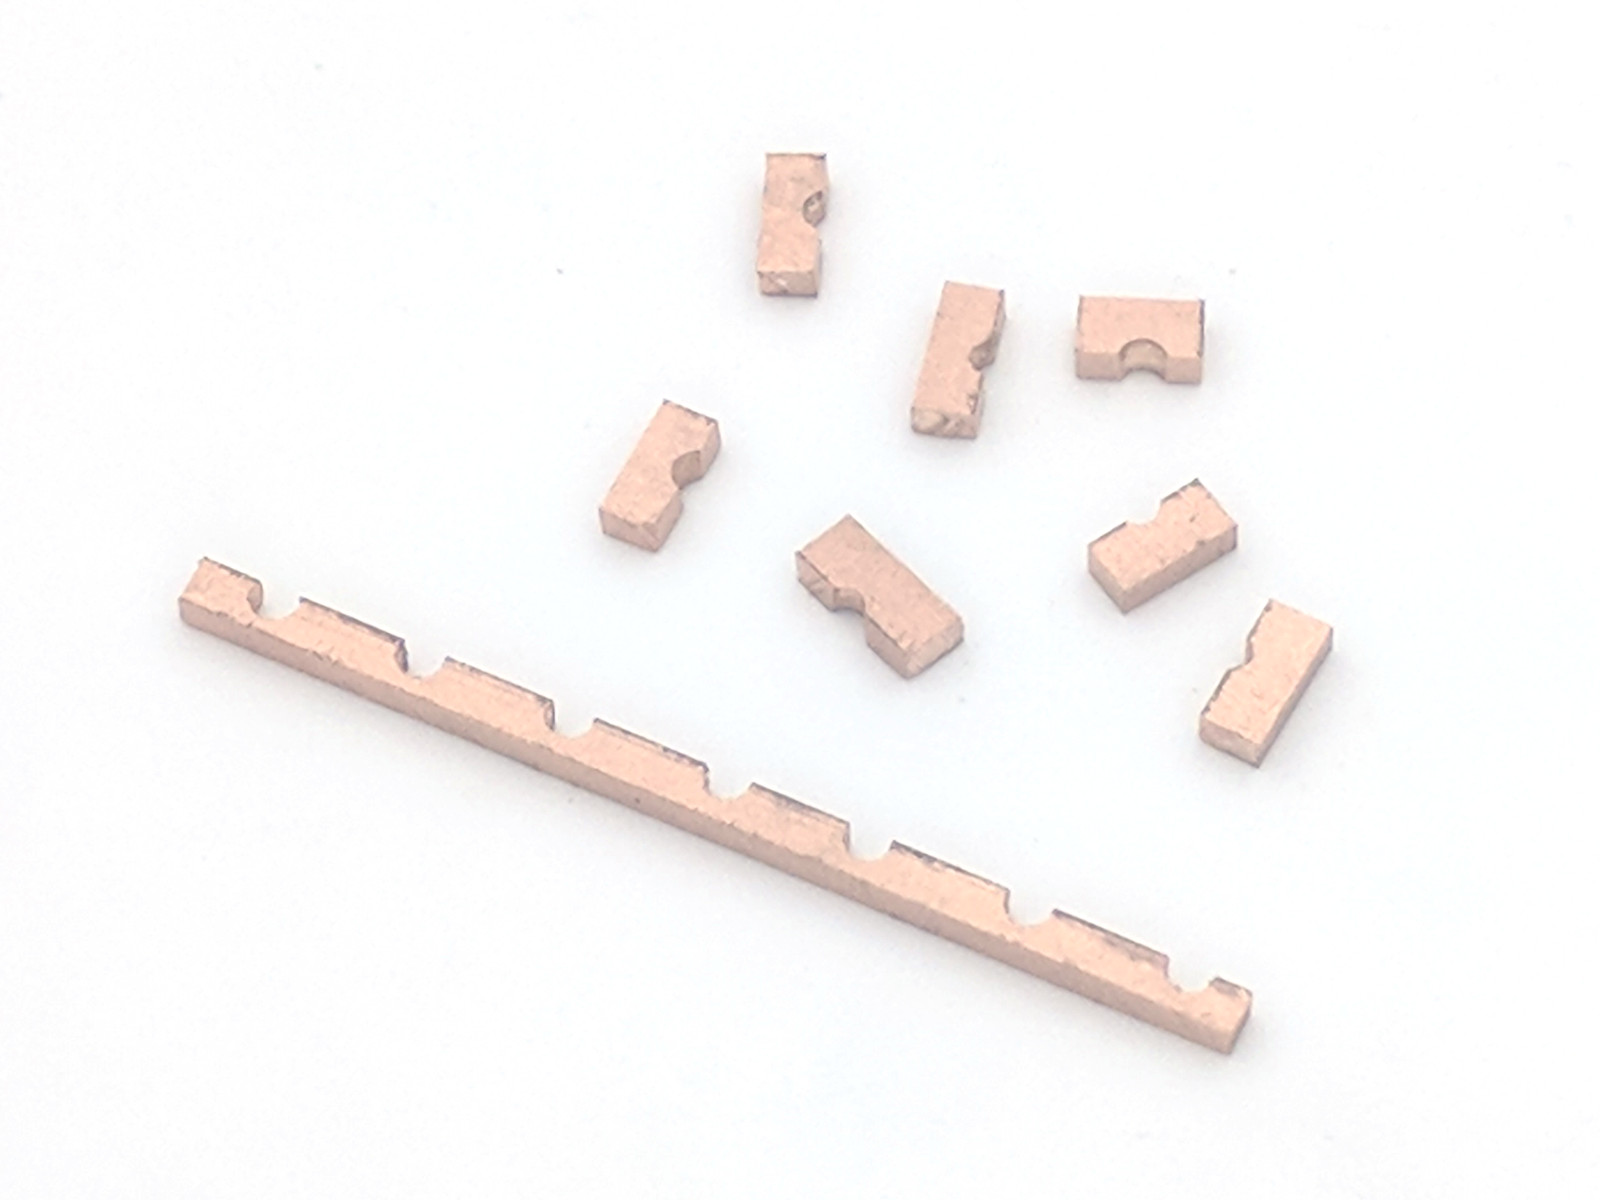
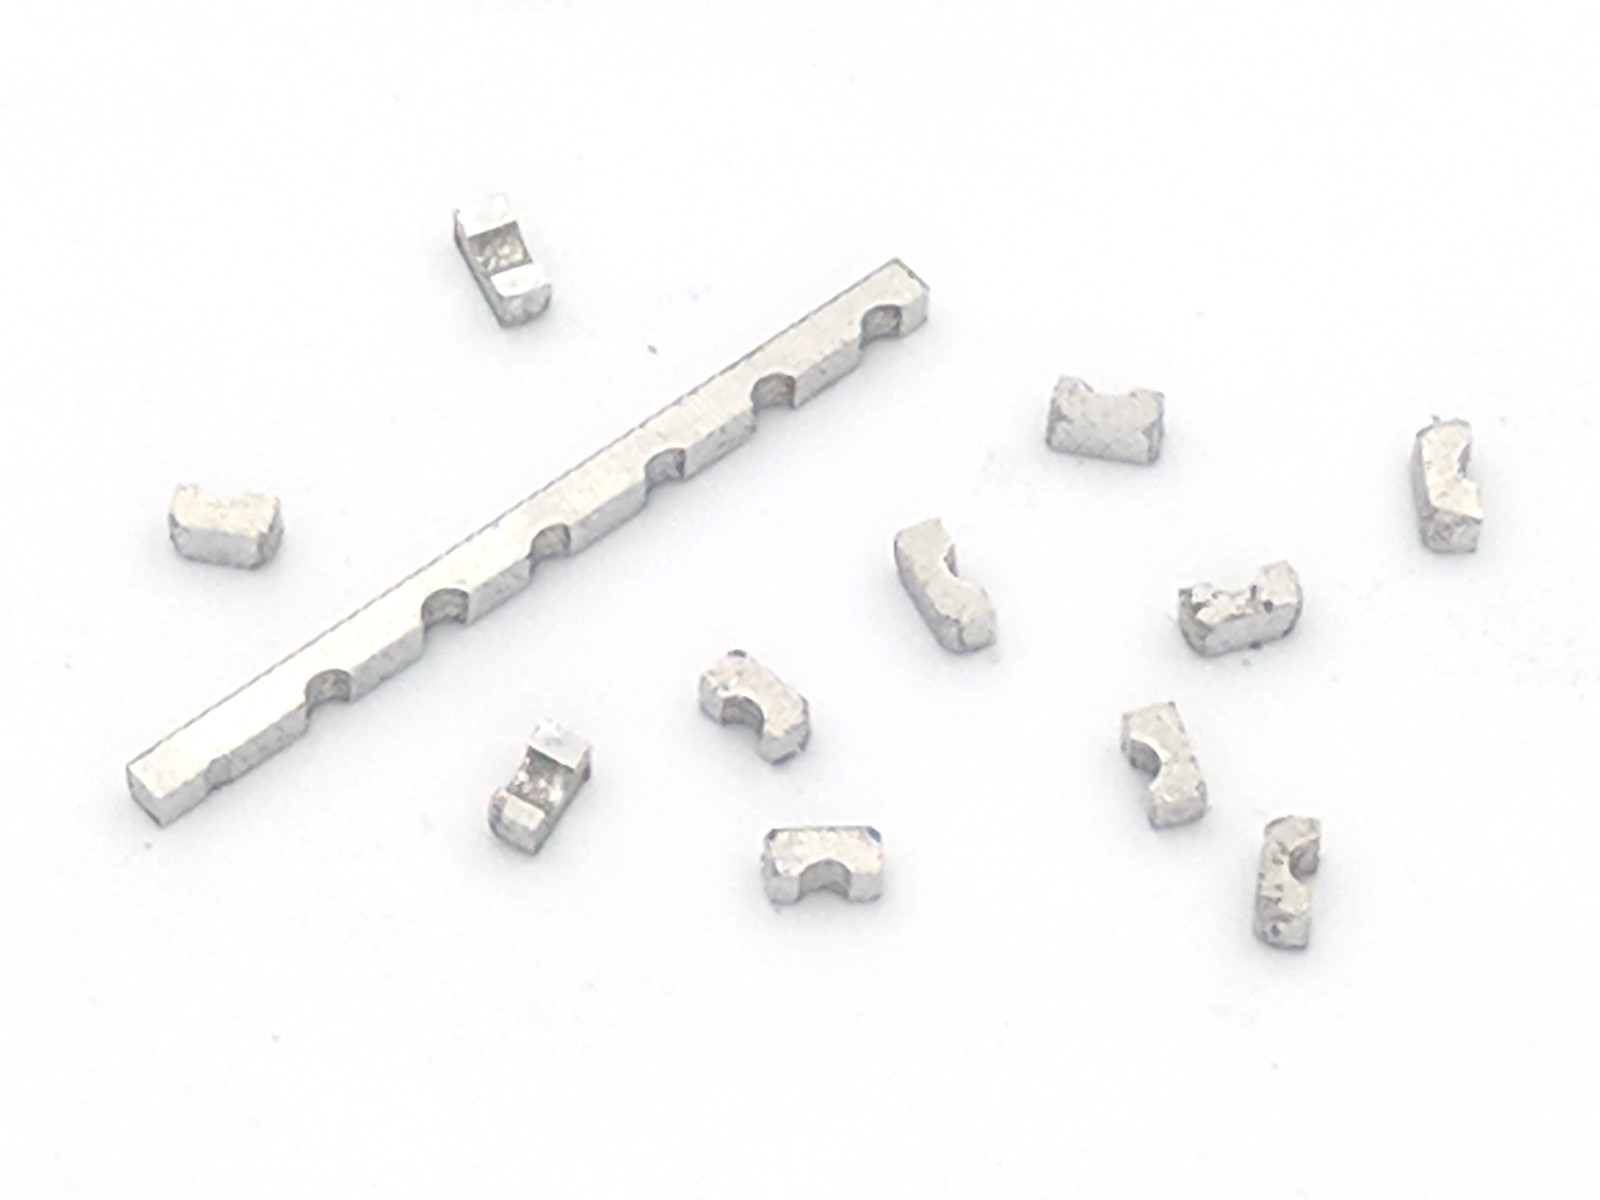
docs: update build info

diff --git a/doc/heater_assembly.md b/doc/heater_assembly.md
@@ -2,225 +2,115 @@ Heater assembly <!-- omit in toc -->
 ===============
 
 - [Intro](#intro)
-- [Make copper plate of required size](#make-copper-plate-of-required-size)
-- [PCB Mount holes](#pcb-mount-holes)
-- [MCH mount holes](#mch-mount-holes)
-- [Cones for flat cap screws](#cones-for-flat-cap-screws)
-- [Sanding](#sanding)
-- [Half-shims for MCH](#half-shims-for-mch)
-- [Test assembly](#test-assembly)
+- [Drilling conductor](#drilling-conductor)
+- [Drill plate](#drill-plate)
+- [Half-shims for MCH mount](#half-shims-for-mch-mount)
 - [Painting](#painting)
-- [Paint baking](#paint-baking)
 - [MCH pads insulation](#mch-pads-insulation)
 - [Final assembly](#final-assembly)
 
 ## Intro
 
-There are 2 possible types of heaters:
+Everything is designed with accessible materials. But we strongly recommend you
+consider [mini circular saw tables](https://www.aliexpress.com/item/32845187139.html)
+for easy aluminum cut. Of cause, you can cut it by hand saw, if you are patient.
 
-- MCH-based, with copper top plate.
-- Aluminum heater cartridge.
-
-Copper has better thermal conductivity and better response. In real world this means:
-
-- More uniform surface temperature.
-- More easy to cool down (we need 4C/sec cooldown speed on reflow end).
-- More flexible configurations (AC 110/220) and higher max temperatures
-
-As perfectionists, we recommend "copper" heater. But as realists, we don't like
-to reduce project availability and have "Plan B" - aluminum heater.
-
-"Mission" of this project is to make modern electronics easy to do by
-hobbyists. That means, everything should be possible to do at home, with
-electric screwdriver & 3D-printer only, without machine-tools. From this
-point of view, need of circular saw table is a serious disadvantage. But there
-are cheap and very small [mini circular saw tables](https://www.aliexpress.com/item/32845187139.html).
-Those will be enough for our needs. Only you can make a choice. Our duty is
-to describe possibilities and expenses.
-
-We describe build of both heater types in parallel. Just skip unneeded steps
-for aluminum heater.
-
-Let's go!
+Also, we recommend you build drilling conductor for ideal drill angle and depth.
 
 
-## Make copper plate of required size
+## Drilling conductor
 
-You need 70*60mm copper plate, 2mm thick. Cut it at circular saw. If you use
-mini table and have no experience, you should know:
+That's not mandatory, but simplifies making accurate holes for screws:
 
-- ADD OIL to cut line. That's important.
-- Fewer big teeth are much better for copper/alu than more small teeth.
-  Just use stock 80mm disk with oil.
+![](images/drill_conductor_duo.jpg)
+
+Holes are 1.7mm and 3.1mm (in M6 screws, glued with CA), for appropriate drill bits.
+
+Tips:
+
+1. It's not mandatory to use metal U-profile. Use anything you have,
+   even wood. You can also use [miter track](https://www.aliexpress.com/item/33048246472.html).
+2. To make hole in M6 screw center - put it into screwdriver, and push with
+   drill bit, placed into separate chuck. Philips head is important - no need to
+   search center point.
+3. To simplify drilling:
+    - Use the worst possible screws :). Avoid stainless steel and tempered steel.
+    - Add oil to drilled point. If you don't have special one - olive oil will be
+      ok.
+    - HSS Co (M35, M42) drill bits are more comfortable for steel, instead of
+      ordinary HSS. It's also good idea to have reserve drill bits.
+4. You may need additional spacer for 3.1mm hole. Drill 2 screws.
+
+After conductor ready, use it to make test holes on unused peace of metal.
+Drill 1.7mm hole and then drill 3.1mm cone down until screw sits as needed.
+Later, use this to set exact drill bit height in chuck.
+
+
+## Drill plate
+
+You need 70*60mm plate, 2-3mm thick. Cut it with circular or hand saw. If you
+use [mini table saw](https://www.aliexpress.com/item/32845187139.html) and have
+no experience, you should know:
+
+- No need to buy separate saw disc for metal, stock one is ok.
+- ADD OIL to cut area. That's important.
 - Train first :). Do couple of test cuts.
 
+Stick plate to PCB with sticky tape, and drill holes to mount MCH and plate
+itself. Then, set exact drill bit height from previous test samples, and make
+cones for screw caps.
 
-## PCB Mount holes
+After all - sand plate to remove artefacts and improve painting quality.
 
-Stick copper plate (or alu heater) to PCB with sticky tape, and use PCB as
-conductor to drill 1.6mm holes.
+![](images/plate_drilled_3mm.jpg)
 
-Note, copper is very inconvenient to drill. Use medium RPM and push gently.
-If electric drill starts to vibrate - increase RPM until acceptable. Advices:
-
-- HSS Co (M35) drill bits recommended. Those tend to forgive you mistakes,
-  if you select too high RPM.
-- Train first! Try to drill unused peace of copper plate to understand process.
-- You should have 1-2 reserve 1.6mm drill bits for replace.
-- Be patient, don't push too hard.
+If you have orbital sander - use it. Manual sanding is ok to, but takes more
+time.
 
 
-## MCH mount holes
+## Half-shims for MCH mount
 
-Process is similar to above. Stick MCH to copper plate:
+MCH is mounted to plate by edges. We need supports from another side of screws
+to avoid skew. Those can be done from any pease of 1.5-2.0mm metal.
 
-![](images/copper_with_mch_50.jpg)
-
-You need 4 holes as close as possible to MCH heater. Position drill bit to touch
-MCH, with 5mm margin from corner, and drill.
-
-
-## Cones for flat cap screws
-
-Now you need to drill cones for flat caps screw. We need conductor to make those
-the same and accurate. May be you will be lucky without conductor for
-aluminum heater, but that's impossible for copper. Seriously, no chance
-to drill nice cones "by hand" in copper, and very high probability to break
-drill bit.
-
-Note: this can be done on good drill stand, but our goal is to explain how to
-succeed "at home".
-
-Another problem is, we need cones with 3mm outer dia. There are no countersink
-drill bits of such small size. So, we use 3mm chamfer milling cutter from CNC.
-More expensive, but no alternative.
-
-Let's do conductor first:
-
-![](images/chamfering_mill_conductor.jpg)
-
-It's a U-arc with gear for 3mm shaft. Assembled with any glue (CA will be ok
-too). U-arc can be done anyhow - a peace of U-profile, 2 peaces of L-profile or
-even wood. You can also use [miter track](https://www.aliexpress.com/item/33048246472.html).
-
-Optimal sizes are:
-
-- 5-10mm of bottom space, to see hole and drill bit.
-- 20-40mm width
-- 150mm length
-
-How to use:
-
-1. Do "test" hole and cone "by hand", until satisfied with result. Check how
-   screw fit in it.
-2. Place conductor over it. Insert drill bit and make screwdriver chuck touch
-   conductor. Now you can "clone" cones as much as you need.
-3. Take conductor with plate in one hand, drill into another hand, and drill.
-   This will help to "feel" process, and exclude unintended skew of screwdriver.
-
-Result:
-
-![](images/plates_drilled.jpg)
-
-
-## Sanding
-
-Sanding is mandatory for copper plates and recommended for aluminum heater.
-Reasons are:
-
-1. Remove artifacts after drilling.
-2. Round sharp edges.
-3. Prepare surface for painting.
-
-There are to need to polish surface to mirror state. Just sand until you like
-result, by hand or with orbital sander.
-
-![](images/plates_sanded.jpg)
-
-Note, copper plates are usually straight, but aluminum heater is usually not.
-Sanding copper plate is fast, but sanding aliminum can take some time to
-make it straight and nice.
-
-
-## Half-shims for MCH
-
-MCH is mounted to copper plate by edges. We need supports from another side of
-screws to avoid skew. Let's do those from existing peace of copper plate.
-
-Drill a series of 2mm holes with step 7mm and margin 3mm from border. Then, at
+Drill a series of 2mm holes with step 5mm and margin 3mm from border. Then, at
 circular saw, cut the line and split to peaces:
 
 ![](images/mch_half_shims.jpg)
 
-Precision is not critical. Just do as you can :).
-
-Note. MCH 50\*50mm has height exactly 2.0mm, as copper sheet. MCH 40\*40mm has
-~1.7mm height - you may need to sand shim height a bit.
-
-
-## Test assembly
-
-Now worth make a partial test assembly, to check everything is ok and straight:
-
-![](images/plates_test_assembly.jpg)
-
+Precision is not critical. Just do as you can :). You can also make half-shims
+manually.
 
 
 ## Painting
 
-It's very critical to cover heater top with [high temperature black paint](https://www.google.com/search?q=high+temperature+paint), to
+It's very inportant to cover heater top with [high temperature black paint](https://www.google.com/search?q=high+temperature+paint), to
 increase IR emission. Difference between painted and unpainted surface is HUGE.
 
-We can not give you exact link, but such paints should be widely available in
+We can not give you exact links, but such paints should be widely available in
 your local shops. They are used to protect barbecues, car exhaust systems,
-furnaces, ovens and so on. Just buy the most cheap, able to work at 400C, in
-aerosol pack.
+furnaces, ovens and so on. Those paints need baking at 200-250C as final step.
 
-- With very high probability, paint will need "baking" at 150-200C (not a
-  problem, you can use heater itself to heat). Some paints don't need baking,
-  but need 72Hours to full dry. Don't wait for miracle, there are no "5 min high
-  temperature paint".
-- Prefer paint which is more easy to use (fast dry, small pause between layers).
-  Don't select by  max temperature (1000C and more), 400C is enough. Select by
-  usage simplicity.
-- As always... train first, if you have no practice at all!
+IMPORTANT. READ PAINTING PROCESS INSTRUCTION ON AEROSOL. THAT'S IMPORTANT FOR
+GOOD RESULT.
 
-READ PAINTING PROCESS INSTRUCTION ON AEROSOL. THAT'S IMPORTANT FOR GOOD RESULT.
-Painting is not difficult, but broken process will cause poor coating quality.
-
-We stick plates to A4 paper, to hold it in one hand, and spray paint by another
-hand. 2 thin layers are enough. To pin plate, place paper sticky tape from
-bottom side to cover all edges, with bounding margins. Then put that on A4 sheet
-and stick again by margins.
-
-After paint:
+You can stick plates with sticky tape to A4 paper. Then to hold it in one hand
+and apply aerosol paint by another hand. 2 thin layers are enough.
 
 ![](images/plates_painted.jpg)
 
-Then leave it to dry according to instruction, before bake.
+After paint dries - bake it, according to instructions. If you wish to keep
+kitchen oven clean, try [cheap heater](https://www.aliexpress.com/item/32997139401.html)
+with light dimmer.
 
+Notes:
 
-## Paint baking
+- First time, paint smokes, that's normal.
+- If you have no baking instruction - heat to 100C, then slowly (~ 5C/min)
+  to 250C. And keep at max temp 1-2 hours.
+- Don't touch paint while bake. It becomes very tender at start.
 
-Most of high temperature paints require baking to became solid. Before that
-those are soft and subject to scratches.
-
-To bake aluminum heater - insert mounting screws and use those as trotters. Then
-power via dimmer to set proper temperature. To bake copper plate - use aluminum
-heater (it's cheap).
-
-Exact baking process should be taken from manual. If it's not available - heat
-at 120C until iit stops smoke, then heat at 200C several hours. To determine
-end of process - use testing peace of metal, and touch it with something sharp,
-to check if paint is solid or not. Preliminary estimate is 3-12 hours.
-
-
-TBD [image]
-
-As you can see, copper plate back side become oxydized. That's not a problem
-in general - if you don't scratch oxidized film it will stay and stop process.
-But for ideal result you may wish to sand back surface and use high temperature
-thermal conductive paste on MCH to exclude any air access.
+After baking done - sand border sides, those should not emit heat.
 
 
 ## MCH pads insulation
@@ -232,13 +122,10 @@ First, move wire coating "inside" ceramic body:
 
 ![](images/mch_pads.jpg)
 
-Now top side is safe enough. To protect bottom side, fill contacts and nearby
-area with silicon gasket maker. Then wait 1 day to dry.
+Then add 2 peaces of kapton (polyimide) tape to close pads. And from another
+side, to close sticky layer and hold wire insulation.
 
 ![](images/mch_insulated.jpg)
-
-For sure you may add a peace of kapton (polyimide) tape (but that's not
-necessary).
 
 
 ## Final assembly
